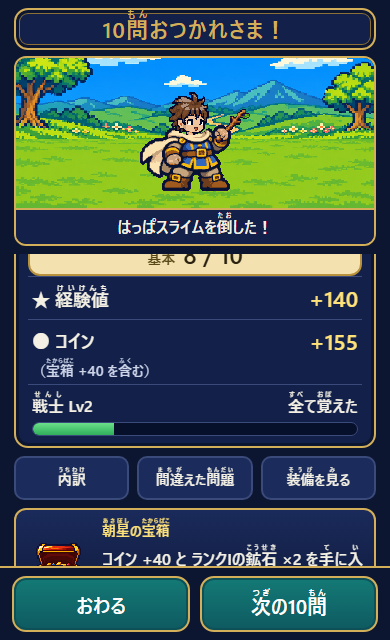
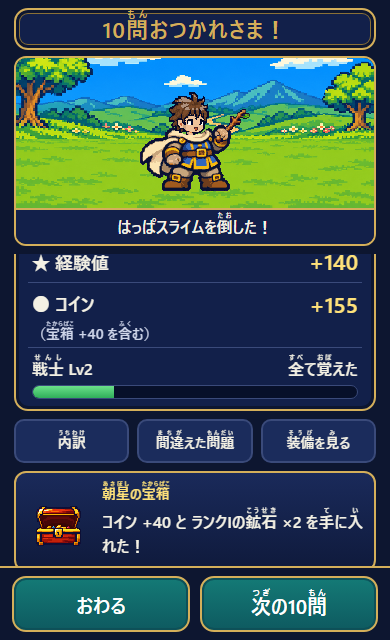
fix08_reveal：本文テキストそのものの bottom を、scrollTop が止まるのを待って測るよう変更し、証拠画像を撮り直し

Changed region(s): [[0.0308, 0.375, 0.9846, 0.9062]]

diff --git a/rpg/tools/fix08_reveal.py b/rpg/tools/fix08_reveal.py
@@ -6,8 +6,8 @@ exec(src.split('def run_vp')[0].replace("os.path.join(ROOT, 'rpg', 'shots', 'fix
 from playwright.sync_api import sync_playwright
 VP = [(320, 568), (320, 640), (390, 640), (390, 700)]
 CASES = [('coin', {'chest': 'coin', 'wrong': True}), ('rare_big', {'chest': 'rare', 'big': True, 'R': 2, 'C': 7, 'wrong': True, 'boss': True})]
-M = """() => { const l = document.getElementById('rwChestLine').getBoundingClientRect(), f = document.querySelector('.rw-foot').getBoundingClientRect(), b = document.getElementById('rwBody').getBoundingClientRect();
-  return { lineTop: Math.round(l.top), lineBottom: Math.round(l.bottom), footTop: Math.round(f.top), bodyTop: Math.round(b.top), ok: l.bottom <= f.top + 0.5 && l.top >= b.top - 0.5 }; }"""
+M = """() => { const tx = document.querySelector('#rwChestLine b') || document.getElementById('rwChestLine'); const tr = tx.getBoundingClientRect(); const l = document.getElementById('rwChestLine').getBoundingClientRect(), f = document.querySelector('.rw-foot').getBoundingClientRect(), b = document.getElementById('rwBody').getBoundingClientRect();
+  return { textBottom: Math.round(tr.bottom), textOk: tr.bottom <= f.top + 0.5 && tr.top >= b.top - 0.5, scrollTop: Math.round(document.getElementById('rwBody').scrollTop), maxScroll: Math.round(document.getElementById('rwBody').scrollHeight - document.getElementById('rwBody').clientHeight), lineTop: Math.round(l.top), lineBottom: Math.round(l.bottom), footTop: Math.round(f.top), bodyTop: Math.round(b.top), ok: l.bottom <= f.top + 0.5 && l.top >= b.top - 0.5 && tr.bottom <= f.top + 0.5 && tr.top >= b.top - 0.5 }; }"""
 res = []; bad = []
 def one(br, name, w, h, case, o, rm):
     ctx = br.new_context(viewport={'width': w, 'height': h}, device_scale_factor=1, is_mobile=True, has_touch=True, reduced_motion='reduce' if rm else 'no-preference')
@@ -15,7 +15,10 @@ def one(br, name, w, h, case, o, rm):
     pg.evaluate("([t, js]) => { const s = JSON.parse(t); (new Function('s', js))(s); localStorage.setItem('ichimon.rpg.v1', JSON.stringify(s)); }", [SAVE0, PATCH])
     pg.reload(); pg.wait_for_selector('#go', state='attached'); pg.wait_for_function("() => Object.keys(RPGSprites.IMGS).length >= 700 && !!window.RPG && RPG.ok", timeout=90000); pg.wait_for_timeout(500)
     pg.evaluate(SETUP, o); pg.wait_for_timeout(400)
-    pg.click('#rwOpen'); pg.wait_for_function("() => !document.getElementById('rwOpen')", timeout=5000); pg.wait_for_timeout(1000)
+    pg.click('#rwOpen'); pg.wait_for_function("() => !document.getElementById('rwOpen')", timeout=5000); pg.wait_for_timeout(600)
+    for _ in range(40):   # scrollTop が止まるまで待つ
+        a = pg.evaluate("document.getElementById('rwBody').scrollTop"); pg.wait_for_timeout(150)
+        if pg.evaluate("document.getElementById('rwBody').scrollTop") == a: break
     m = pg.evaluate(M); m.update(br=name, vp=f'{w}x{h}', case=case, rm=rm); res.append(m)
     if not m['ok']: bad.append(m)
     pg.screenshot(path=os.path.join(OUT, f'{name}_{w}x{h}_{case}{"_rm" if rm else ""}.png')); ctx.close()
